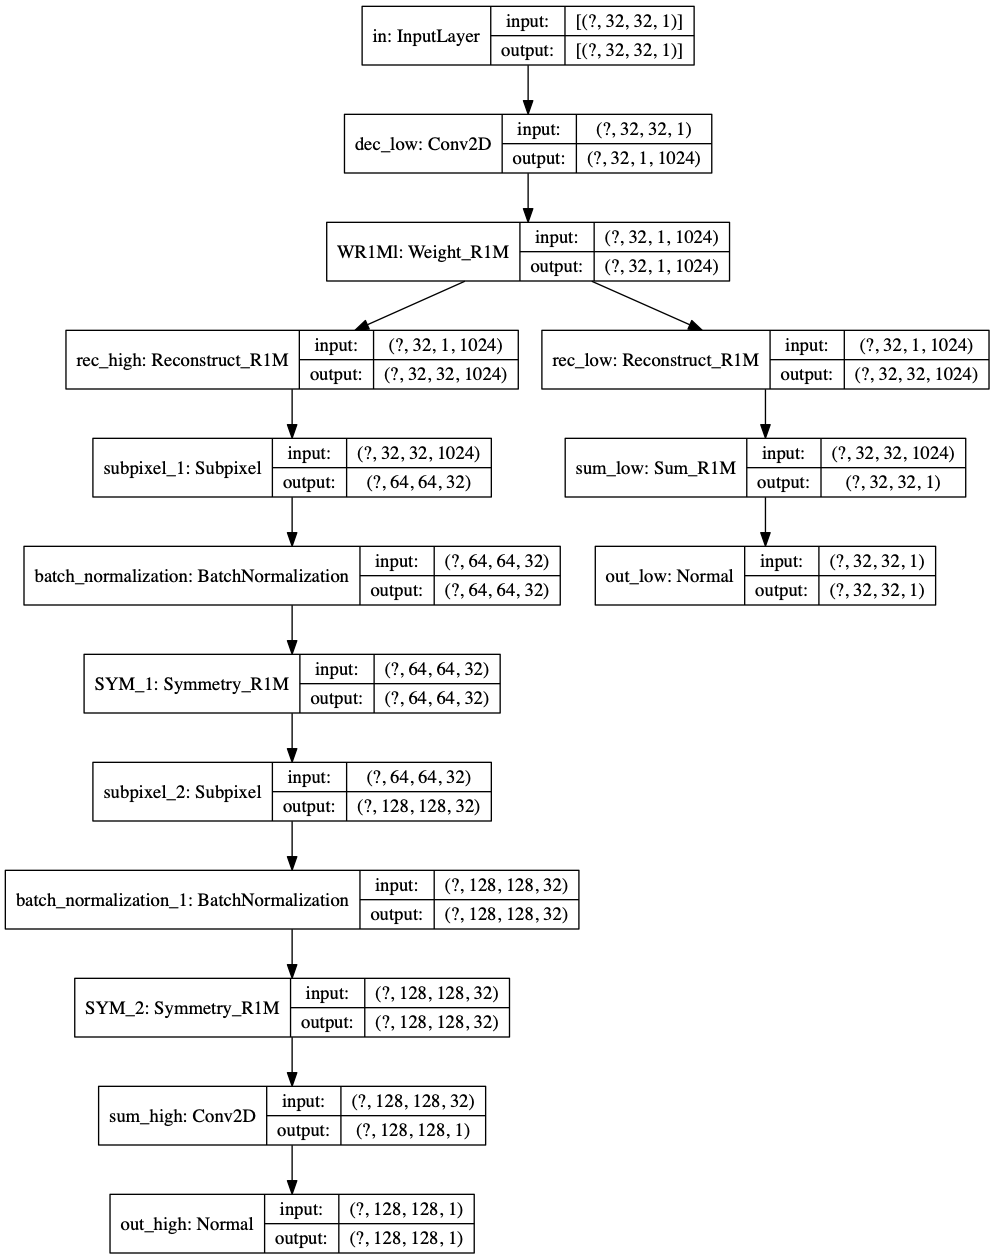
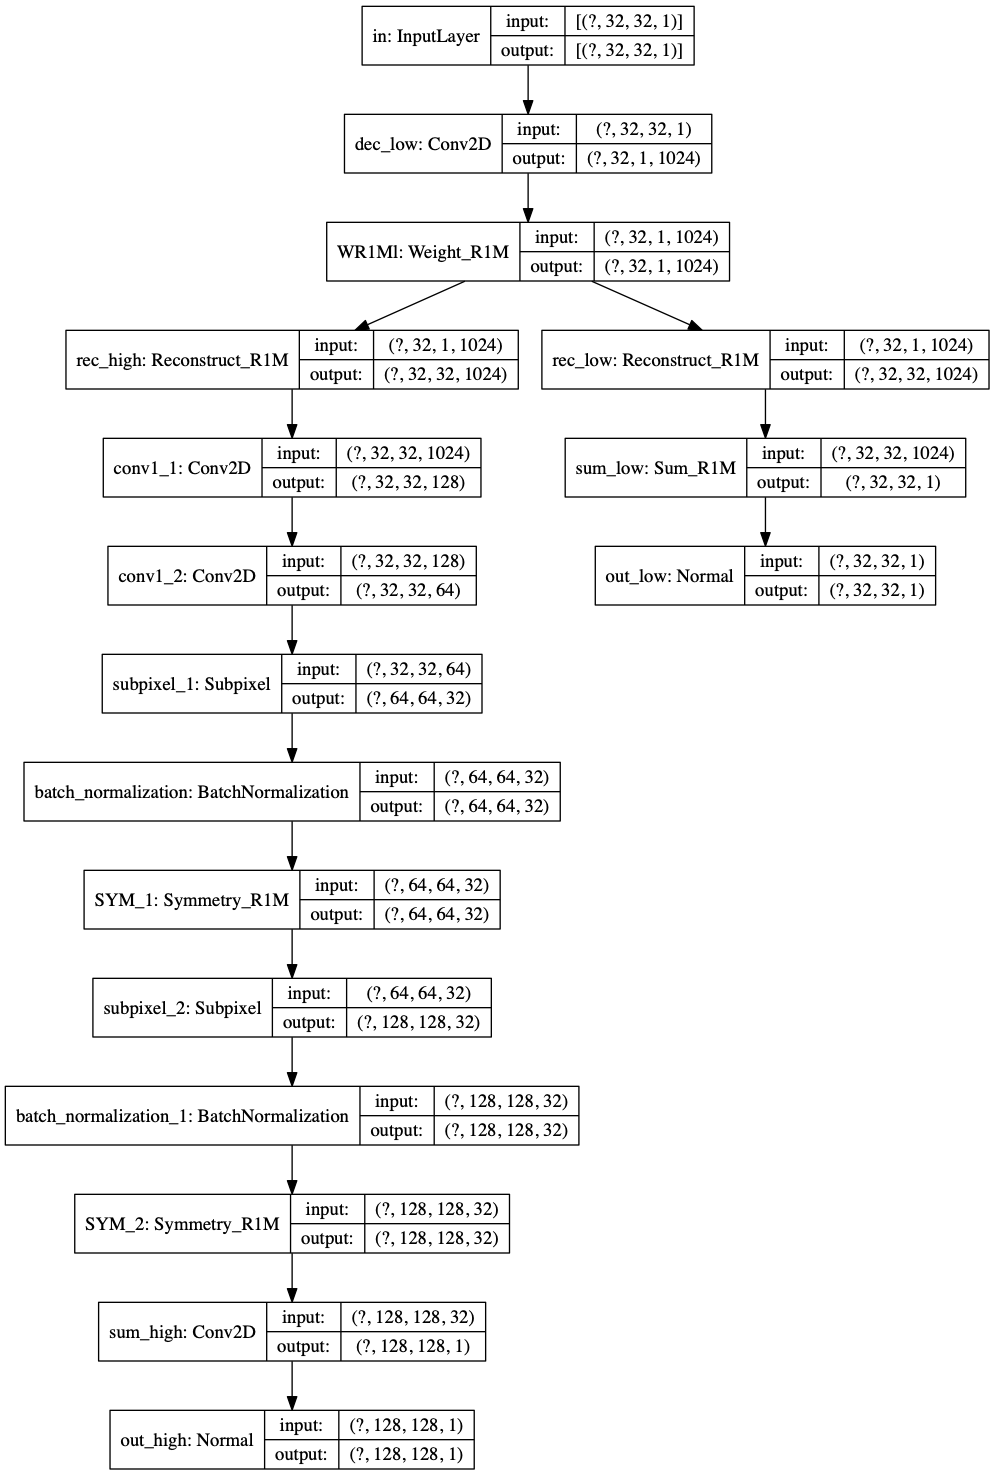
bkup

Changed region(s): [[0.0, 0.0, 0.998, 1.0]]

diff --git a/model.py b/model.py
@@ -143,13 +143,6 @@ class Normal(tf.keras.layers.Layer):
 
         return tf.multiply(Div, M)
 
-class Log1p(tf.keras.layers.Layer):
-    def __init__(self, name=None):
-        super(Log1p, self).__init__(name=name)
-
-    def call(self, input):
-        return tf.math.log1p(1000.0*input)
-
 '''class symmetry_constraints(tf.keras.constraints.Constraint):
     def __call__(self, w): 
         #for conv2d the shape of kernel = [W, H, C, K] C:channels, K:output number of filters
@@ -176,18 +169,18 @@ def make_generator_model(len_low_size=16, scale=4):
 
     Rech = Reconstruct_R1M(1024, name='rec_high')(WeiR1Ml)
 
-    '''conv1 = tf.keras.layers.Conv2D(128, [3, 3], strides=1, padding='same', data_format="channels_last", 
+    conv1 = tf.keras.layers.Conv2D(128, [3, 3], strides=1, padding='same', data_format="channels_last", 
                                     activation='relu', use_bias=False,
                                     kernel_initializer=tf.keras.initializers.RandomNormal(mean=0.01, stddev=0.1), 
                                     name='conv1_1')(Rech)
     conv1 = tf.keras.layers.Conv2D(64, [3, 3], strides=1, padding='same', data_format="channels_last", 
                                     activation='relu', use_bias=False,
                                     kernel_initializer=tf.keras.initializers.RandomNormal(mean=0.01, stddev=0.1), 
-                                    name='conv1_2')(conv1)'''
+                                    name='conv1_2')(conv1)
     trans_1 = Subpixel(filters= int(32), kernel_size=(3,3), r=2, 
                         activation='relu', use_bias=False, padding='same', 
                         kernel_initializer=tf.keras.initializers.RandomNormal(mean=0.01, stddev=0.1), 
-                        name='subpixel_1')(Rech)
+                        name='subpixel_1')(conv1)
     batchnorm = tf.keras.layers.BatchNormalization()(trans_1)
     sym = Symmetry_R1M(name='SYM_1')(batchnorm)
 
@@ -224,38 +217,27 @@ def make_discriminator_model(len_low_size=16, scale=4):
     '''
     len_high_size = int(len_low_size*scale)
     inp = tf.keras.layers.Input(shape=[len_high_size, len_high_size, 1], name='input_image')
-    #inp = Log1p()(inp)
-    #zero_pad = tf.keras.layers.ZeroPadding2D()(inp)
-    conv = tf.keras.layers.Conv2D(32, 3, strides=1, padding='valid', kernel_initializer=tf.keras.initializers.RandomNormal(mean=0.0, stddev=0.2), use_bias=False)(inp)
-    #pool = tf.keras.layers.AveragePooling2D()(conv)
-    sym = Symmetry_R1M()(conv)
-    leaky_relu = tf.keras.layers.LeakyReLU(0.2)(sym)
 
-    conv = tf.keras.layers.Conv2D(64, 3, strides=1, padding='valid', kernel_initializer=tf.keras.initializers.RandomNormal(mean=0.0, stddev=0.2), use_bias=False)(leaky_relu)
-    sym = Symmetry_R1M()(conv)
-    batchnorm = tf.keras.layers.BatchNormalization()(sym)
-    leaky_relu = tf.keras.layers.LeakyReLU(0.2)(batchnorm)
-
-    conv = tf.keras.layers.Conv2D(128, 3, strides=1, padding='valid', kernel_initializer=tf.keras.initializers.RandomNormal(mean=0.01, stddev=0.2), use_bias=False)(leaky_relu)
+    conv = tf.keras.layers.Conv2D(128, 3, strides=1, padding='valid', kernel_initializer=tf.keras.initializers.RandomNormal(mean=0.01, stddev=0.2), use_bias=False)(inp)
     conv = tf.keras.layers.Dropout(0.1)(conv)
     pool = tf.keras.layers.MaxPooling2D()(conv)
     sym = Symmetry_R1M()(pool)
     batchnorm = tf.keras.layers.BatchNormalization()(sym)
     leaky_relu = tf.keras.layers.LeakyReLU(0.2)(batchnorm)
 
-    conv = tf.keras.layers.Conv2D(512, 3, strides=1, padding='valid', kernel_initializer=tf.keras.initializers.RandomNormal(mean=0.0, stddev=0.2), use_bias=False)(leaky_relu)
+    conv = tf.keras.layers.Conv2D(512, 3, strides=1, padding='valid', kernel_initializer=tf.keras.initializers.RandomNormal(mean=0.01, stddev=0.2), use_bias=False)(leaky_relu)
     conv = tf.keras.layers.Dropout(0.1)(conv)
     pool = tf.keras.layers.MaxPooling2D()(conv)
     sym = Symmetry_R1M()(pool)
     batchnorm = tf.keras.layers.BatchNormalization()(sym)
     leaky_relu = tf.keras.layers.LeakyReLU(0.2)(batchnorm)
 
-    conv = tf.keras.layers.Conv2D(1, 3, strides=1, padding='valid', kernel_initializer=tf.keras.initializers.RandomNormal(mean=0.0, stddev=0.2), use_bias=False)(leaky_relu)
+    conv = tf.keras.layers.Conv2D(1, 3, strides=1, padding='valid', kernel_initializer=tf.keras.initializers.RandomNormal(mean=0.01, stddev=0.2), use_bias=False)(leaky_relu)
     sym = Symmetry_R1M()(conv)
     batchnorm = tf.keras.layers.BatchNormalization()(sym)
     leaky_relu = tf.keras.layers.LeakyReLU(0.2)(batchnorm)
 
-    last = tf.keras.layers.Conv2D(1, 1, strides=1, padding='valid', kernel_initializer=tf.keras.initializers.RandomNormal(mean=0.0, stddev=0.2), use_bias=False, activation='sigmoid')(leaky_relu)
+    last = tf.keras.layers.Conv2D(1, 1, strides=1, padding='valid', kernel_initializer=tf.keras.initializers.RandomNormal(mean=0.01, stddev=0.2), use_bias=False, activation='sigmoid')(leaky_relu)
     return tf.keras.Model(inputs=inp, outputs=last)
 
 def discriminator_bce_loss(real_output, fake_output):
@@ -317,8 +299,8 @@ def train_step_generator(Gen, Dis, imgl, imgr, loss_filter, loss_weights, opts, 
         disc_generated_output = Dis(fake_hic_h, training=False)
         gen_high_v = []
         gen_high_v += Gen.get_layer('rec_high').trainable_variables
-        #gen_high_v += Gen.get_layer('conv1_1').trainable_variables
-        #gen_high_v += Gen.get_layer('conv1_2').trainable_variables
+        gen_high_v += Gen.get_layer('conv1_1').trainable_variables
+        gen_high_v += Gen.get_layer('conv1_2').trainable_variables
         gen_high_v += Gen.get_layer('subpixel_1').trainable_variables
         gen_high_v += Gen.get_layer('batch_normalization').trainable_variables
         #gen_high_v += Gen.get_layer('conv2_1').trainable_variables
